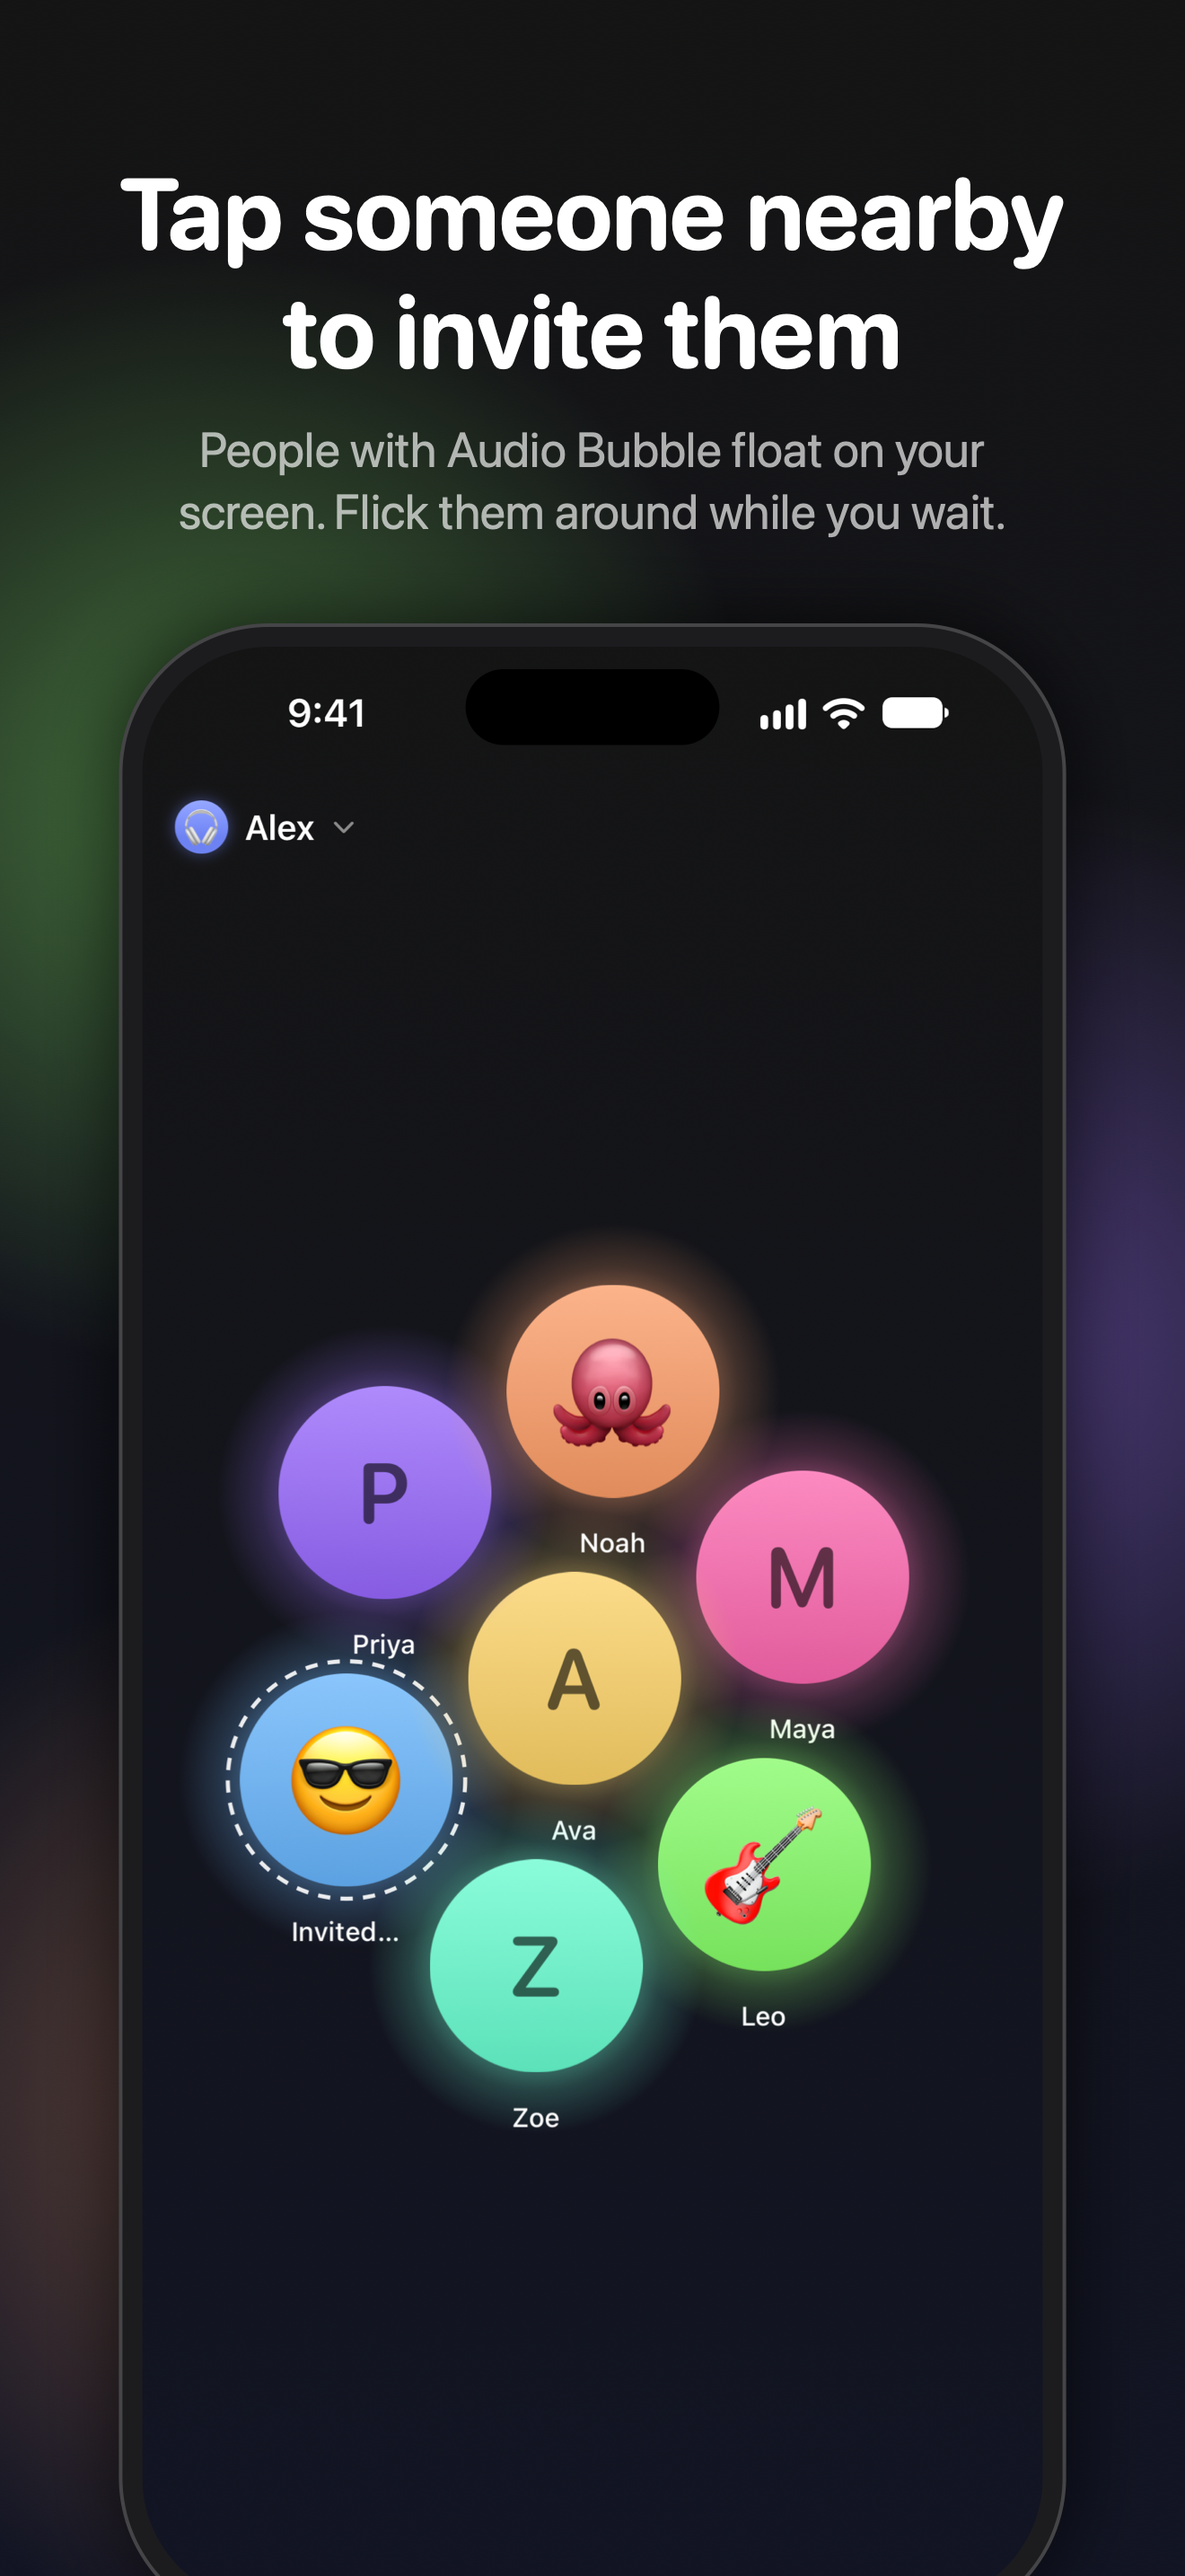
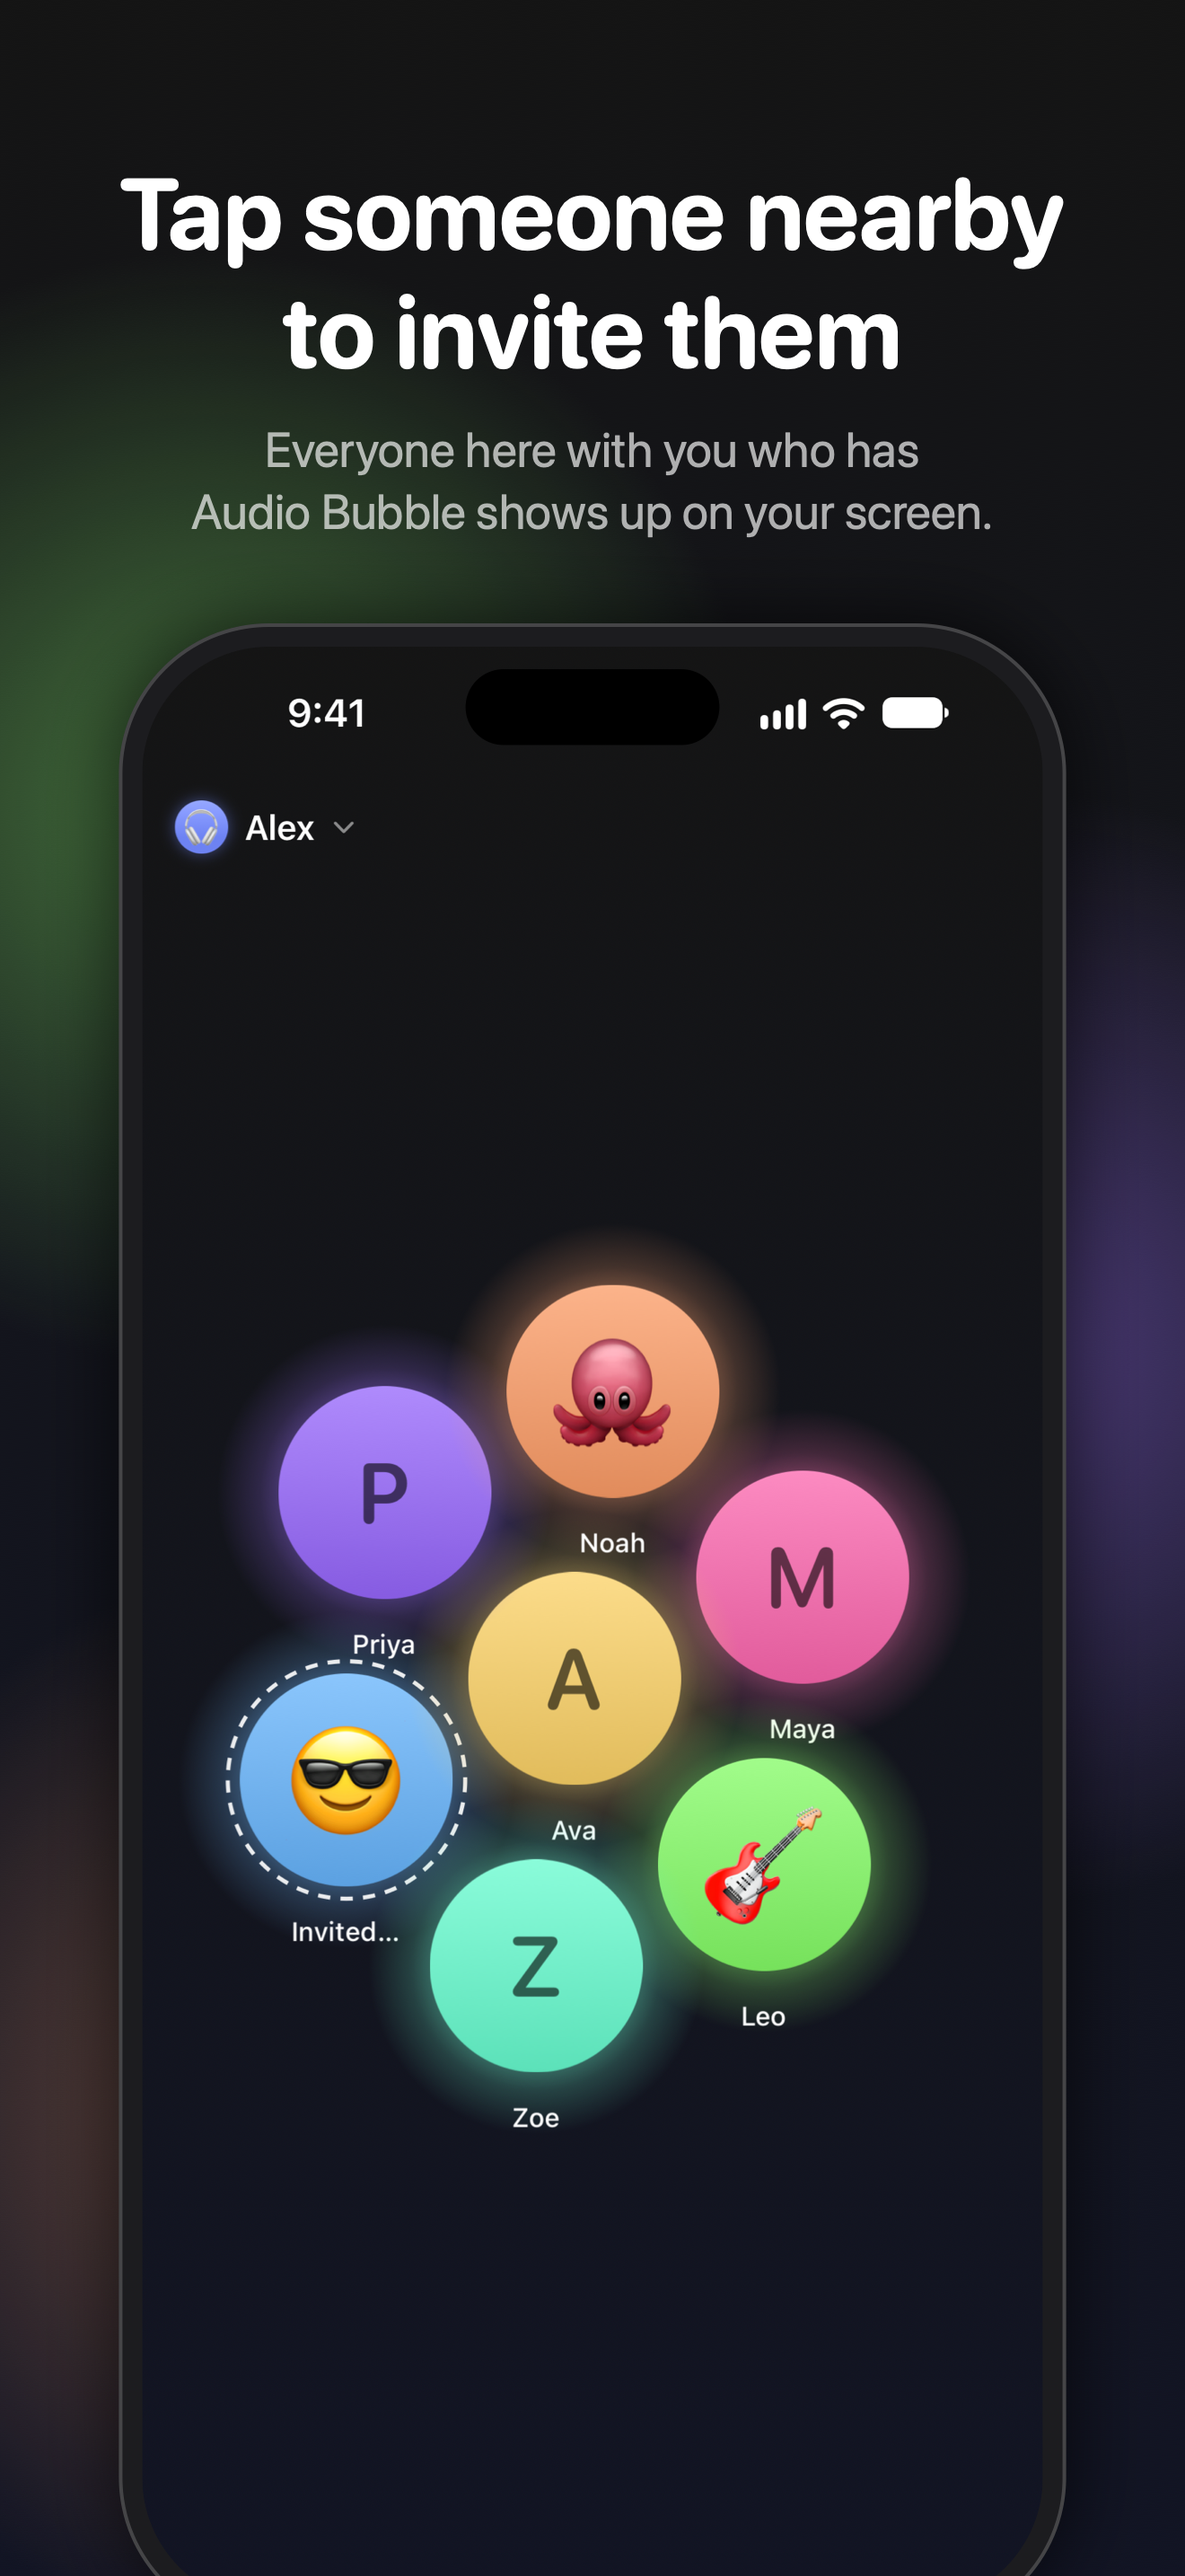
App Store copy: no dragging or flicking in the stills or description
That needs the new bubble field, which isn't on main yet. Screenshot 2's
subhead is now about the people here with you. The App Preview still shows
a drag; the listing README says to reshoot it before shipping without the
new field.

Changed region(s): [[0.1553, 0.1552, 0.8386, 0.2172]]

diff --git a/AppStore/README.md b/AppStore/README.md
@@ -29,6 +29,9 @@ match the screenshots. Someone opens the app. People arrive one by one, a finger
 Maya, then taps Sam to invite him. Sam joins, then Maya and Ava, and each bubble glows in turn as
 that person talks.
 
+The middle section drags and flicks Maya, which needs the Core Animation bubble field on
+`claude/bubble-physics`. Reshoot it before shipping a build without that field.
+
 It meets Apple's current App Preview spec: 886 × 1920 portrait, 15–30 s, H.264 High Profile
 Level 4.0 at 30 fps and ~10.8 Mbps (target 10–12), a silent stereo AAC track at 48 kHz, and an
 .mp4 file of 34 MB (500 MB max).
@@ -75,7 +78,7 @@ subtitle, since those are indexed anyway.
 walkie talkie,intercom,headphones,airpods,concert,noisy,bar,group,voice,chat,offline,nearby,party
 ```
 
-## Description (2013 / 4000)
+## Description (1952 / 4000)
 
 In `description.txt`, ready to paste.
 
